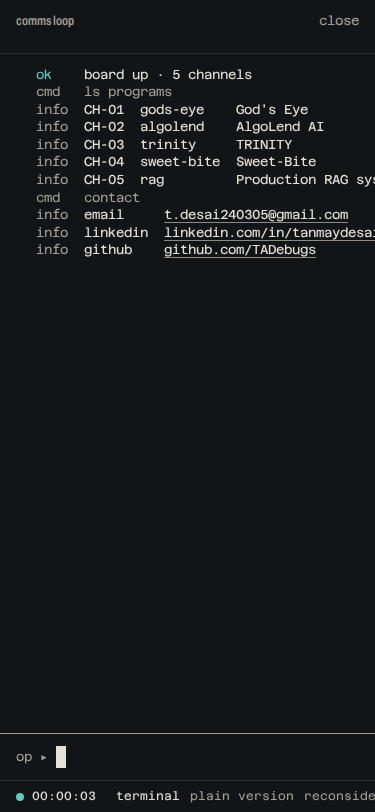
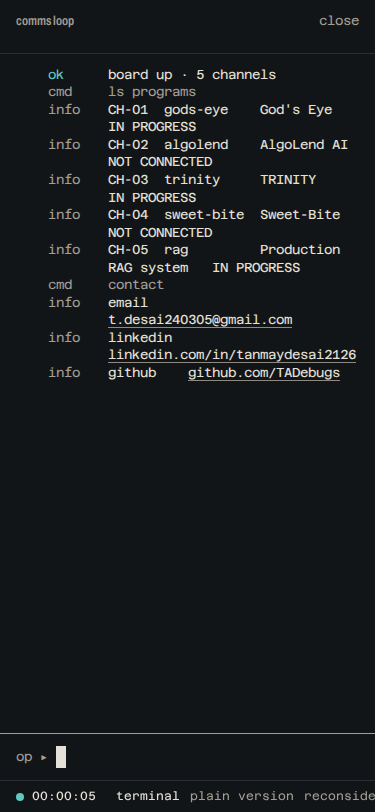
construct r2: status-line message line (§4.4 v1.2), plate 112px, timeout spans, 375 log wrap
Claude-Session: https://claude.ai/code/session_01GKK88ZJrEzVc6W5F9hQVyW

Changed region(s): [[0.088, 0.0616, 1.0, 0.4926], [0.2347, 0.9544, 0.264, 0.9852], [0.0587, 0.9236, 0.088, 0.9544]]

diff --git a/construct/shell.css b/construct/shell.css
@@ -25,6 +25,18 @@ body.has-shell { padding-bottom: calc(var(--sl-h, 32px) + env(safe-area-inset-bo
 .sl-loc { min-inline-size: 0; overflow: hidden; text-overflow: ellipsis; }
 .sl-loc a { text-decoration: none; }
 .sl-loc a:hover { color: var(--legend); text-decoration: underline; text-underline-offset: 3px; }
+.sl-msg {
+  display: inline-flex; align-items: center; gap: var(--s-2); flex: 0 1 auto; min-inline-size: 0; block-size: 100%;
+  padding: 0 var(--s-1); background: none; border: 0; cursor: pointer;
+  color: var(--legend-faint) !important; white-space: nowrap; overflow: hidden; text-overflow: ellipsis;
+  transition: color var(--t-quick) var(--ease);
+}
+.sl-msg:hover { color: var(--legend-dim) !important; }
+.sl-msg[hidden] { display: none; }
+.sl-msg-tx { min-inline-size: 0; overflow: hidden; text-overflow: ellipsis; }
+.sl-msg-lv { flex: none; min-inline-size: 5ch; text-align: start; }
+.sl-cat { display: inline-grid; place-items: center; flex: none; inline-size: 14px; block-size: 14px; background: var(--legend-faint); }
+.sl-cat svg { inline-size: 12px; block-size: 12px; }
 .sl-gap { flex: 1; }
 .sl-btn {
   display: inline-flex; align-items: center; gap: var(--s-2); block-size: 100%;
@@ -35,7 +47,7 @@ body.has-shell { padding-bottom: calc(var(--sl-h, 32px) + env(safe-area-inset-bo
 .sl-btn:hover, .sl-btn[aria-expanded="true"] { color: var(--legend) !important; }
 .sl-key { font: inherit; color: var(--legend-faint); }
 @media (hover: none) and (pointer: coarse) { .sl-key { display: none; } }
-@media (max-width: 480px) { .sl { gap: 10px; font-size: 12px; } .sl-op-k, .sl-loc { display: none; } .sl-btn { padding: 0; } }
+@media (max-width: 480px) { .sl { gap: 10px; font-size: 12px; } .sl-op-k, .sl-loc, .sl-msg, .sl-key { display: none; } .sl-btn { padding: 0; } }
 
 /* ---------- terminal ---------- */
 .term {
@@ -64,7 +76,7 @@ body.has-shell { padding-bottom: calc(var(--sl-h, 32px) + env(safe-area-inset-bo
 
 .term-log { flex: 1; overflow: auto; padding-block: var(--s-3); overscroll-behavior: contain; }
 .term-log:focus-visible { outline-offset: -2px !important; }
-.rec { display: grid; grid-template-columns: 20px 13ch 6ch 1fr; align-items: start; min-block-size: 1.35em; }
+.rec { display: grid; grid-template-columns: 20px max-content 6ch 1fr; column-gap: var(--s-3); align-items: start; min-block-size: 1.35em; }
 .rec .gut { display: flex; align-items: center; block-size: 1.35em; }
 .rec .ts { color: var(--legend-faint); }
 .rec .lv { color: var(--legend-dim); }
@@ -78,7 +90,10 @@ body.has-shell { padding-bottom: calc(var(--sl-h, 32px) + env(safe-area-inset-bo
 .rec a { text-decoration: underline; text-underline-offset: 3px; text-decoration-color: var(--legend-faint); }
 .rec a:hover { text-decoration-color: var(--legend); }
 .cat { display: grid; place-items: center; inline-size: 18px; block-size: 18px; padding: 0; background: var(--legend-faint); border: 0; cursor: pointer; }
-@media (max-width: 480px) { .rec { grid-template-columns: 20px 6ch 1fr; } .rec .ts { display: none; } }
+@media (max-width: 480px) {
+  .rec { grid-template-columns: 20px 6ch 1fr; } .rec .ts { display: none; }
+  .rec.is-pre .tx { white-space: pre-wrap; overflow-wrap: anywhere; }
+}
 
 .term-line {
   display: flex; align-items: center; gap: var(--s-2);

diff --git a/construct/shell.js b/construct/shell.js
@@ -85,11 +85,12 @@ export function mountShell({ channel = null } = {}) {
   const lamp = el('span', { class: 'lamp', 'data-lamp': 'session', 'aria-hidden': 'true' });
   const clock = el('span', { class: 'sl-clock' });
   const loc = el('span', { class: 'sl-loc' }, el('a', { href: '/red' }, '/red'));
+  const msg = el('button', { type: 'button', class: 'sl-msg', 'aria-controls': 'td-term' });
   const termBtn = el('button', { type: 'button', class: 'sl-btn', 'aria-expanded': 'false', 'aria-controls': 'td-term' },
     el('kbd', { class: 'sl-key', 'aria-hidden': 'true' }, '`'), 'terminal');
   const status = el('footer', { class: 'sl', 'aria-label': 'Status line' },
     el('span', { class: 'sl-op' }, lamp, el('span', { class: 'sl-op-k' }, 'op'), clock),
-    loc, el('span', { class: 'sl-gap' }), termBtn,
+    loc, msg, el('span', { class: 'sl-gap' }), termBtn,
     el('a', { class: 'sl-btn', href: '/blue' }, 'plain version'),
     el('a', { class: 'sl-btn', href: '/?reconsider' }, 'reconsider'));
 
@@ -114,6 +115,17 @@ export function mountShell({ channel = null } = {}) {
   root.append(panel, status);
   document.body.prepend(el('p', { class: 'print-note', hidden: '' }, 'Printable version: tanmaydesai.xyz/blue'));
   records.forEach(r => log.append(renderRec(r)));
+  // §4.4 v1.2 message line: the latest record, updated only by push().
+  function annunciate(r) {
+    msg.replaceChildren();
+    msg.hidden = !r;
+    if (!r) return;
+    if (r.cat) { const c = el('span', { class: 'sl-cat' }); c.innerHTML = CAT; msg.append(c); }
+    msg.append(el('span', { class: 'sl-msg-lv' }, r.level), el('span', { class: 'sl-msg-tx' }, (r.text ?? '') + (r.linkText ?? '')));
+    msg.setAttribute('aria-label', `Open terminal. Last message: ${r.level} ${(r.text ?? '') + (r.linkText ?? '')}`.trim());
+  }
+  annunciate(records.at(-1));
+  msg.addEventListener('click', () => open());
 
   // shell.css is part of the shell; inject it if the page didn't link it.
   let link = document.querySelector('link[href="/construct/shell.css"]');
@@ -149,6 +161,7 @@ export function mountShell({ channel = null } = {}) {
     ss.set('td.log', records);
     log.append(renderRec(r));
     log.scrollTop = log.scrollHeight;
+    annunciate(r);
   }
   const say = (level, text, more = {}) => push({ t: formatClock(sessionClock()), level, text, ...more });
   const warn = (text) => { say('warn', text); bell(); };
@@ -385,7 +398,7 @@ export function mountShell({ channel = null } = {}) {
       const p = ps.find(x => x.slug === trace.slug);
       const id = p ? `${p.ch} ${p.name}` : trace.slug;
       const failed = [];
-      (function walk(s) { if (/\(failed\)/.test(s.name)) failed.push(s.name); s.children.forEach(walk); })(trace.root);
+      (function walk(s) { if (/\((failed|timeout)\)/.test(s.name)) failed.push(s.name); s.children.forEach(walk); })(trace.root);
       loaded(trace.slug);
       if (failed.length) say('warn', `${id} loaded in ${formatMs(trace.total ?? 0)} · ${failed.join(', ')}`);
       else say('ok', `${id} loaded in ${formatMs(trace.total ?? 0)}`);

diff --git a/red/board.css b/red/board.css
@@ -48,7 +48,7 @@ ul, ol { padding: 0; list-style: none; }
 .board-msg { display: flex; align-items: center; gap: var(--s-3); padding: var(--s-5) var(--s-4); background: var(--strip); color: var(--legend-dim); }
 .strip {
   position: relative;
-  display: grid; grid-template-columns: 96px minmax(0, 1fr) auto; gap: var(--s-2) var(--s-5); align-items: start;
+  display: grid; grid-template-columns: 112px minmax(0, 1fr) auto; gap: var(--s-2) var(--s-5); align-items: start;
   padding: var(--s-5) var(--s-5) var(--s-5) var(--s-4);
   background: var(--strip);
   border-inline-start: var(--hair) solid var(--rule);
@@ -58,7 +58,7 @@ ul, ol { padding: 0; list-style: none; }
 .strip.is-flag { outline: 2px solid var(--rule-strong); outline-offset: -2px; }
 .plate { display: grid; gap: var(--s-2); padding-block-start: 3px; font: 400 var(--fs-id)/1.2 var(--font-mono); font-variant-numeric: tabular-nums slashed-zero; }
 .ch { color: var(--legend); letter-spacing: .02em; }
-.state { display: inline-flex; align-items: center; gap: var(--s-2); color: var(--legend-dim); }
+.state { white-space: nowrap; display: inline-flex; align-items: center; gap: var(--s-2); color: var(--legend-dim); }
 .body { display: grid; gap: var(--s-1); max-inline-size: var(--measure); }
 .name { font: 600 var(--fs-h3)/var(--lh-tight) var(--font-ui); font-variation-settings: "wdth" var(--wdth-legend); }
 .one { color: var(--legend-dim); line-height: var(--lh-ui); }

diff --git a/.agents/handoff/construct.md b/.agents/handoff/construct.md
@@ -20,3 +20,15 @@ motion: real /shared/motion/index.js + motion.css (PR #5) since main merge; cons
 tested (python3 -m http.server + Playwright Chromium, 46 checks, all pass): keyboard-only (focus-visible 2px on every control), every command, tab completion, history, error + bell, both eggs (déjà vu with fake clock), reduced motion (lamp fault instead of invert, panel and caret static), 375px no h-scroll, Shell API on a program page (location, logTrace, register, rabbit link), every internal link 200 (/resume.pdf 404s locally; vercel rewrite → /resume), console clean.
 known: the sandbox proxy blocks fonts.gstatic.com, so the screenshots render Archivo/Azeret in fallback faces. Check the Vercel preview for real type. Wide `ls programs` rows scroll sideways inside the log at 375px.
 screenshots: .agents/critique/shots/construct-r1-*.png
+
+## construct — round 2
+branch: agent/construct (PR #7), main merged (DESIGN.md v1.2)
+changes since construct-r1 critique:
+- F1 → §4.4 v1.2 message line: `<button class="sl-msg">` between location and spacer, latest record's level + text in --legend-faint mono, ellipsis, aria-label "Open terminal. Last message: …", updated only from push(), hidden ≤480px. The déjà vu duplicate shows there with the cat glyph, so the glitch is visible with the panel closed (construct/shell.js annunciate())
+- F2: TRINITY readout = DESIGN §5.3 verbatim (red/board.js:14); logTrace treats `(failed|timeout)` spans as warn (shell.js)
+- F3: plate 112px, `.state` nowrap (red/board.css)
+- F4: ≤480px `.rec.is-pre .tx` wraps (pre-wrap + anywhere). 0 clipped rows at 375
+- N1: ts column `max-content` + column-gap
+- also: backtick key glyph hidden ≤480px so `reconsider` never clips at 375
+tested: full suite (46 checks) + r2 checks: message line fresh/after déjà vu/opens terminal, bell caught mid-flash, 375 help with no clipped rows, console clean
+screenshots: .agents/critique/shots/construct-r2-{board-1280,board-375,msgline-fresh-1280,msgline-dejavu-1280,plate-not-connected-1280,bell-flash-1280,terminal-help-375}.png

diff --git a/.agents/status/construct.md b/.agents/status/construct.md
@@ -3,4 +3,4 @@
 status: in critique
 branch: agent/construct
 updated: 2026-10-04
-note: round 1 handed off (.agents/handoff/construct.md). Motion API still stubbed in construct/_stub/ until agent/motion merges.
+note: round 2 handed off (.agents/handoff/construct.md): r1 critique F1–F4 + N1 fixed, real /shared/motion in use.
